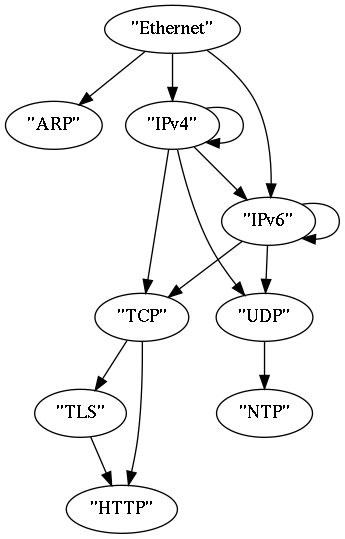
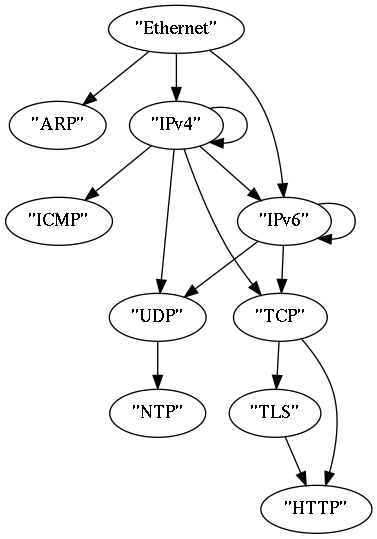
Added ICMP with echo (ping) support

diff --git a/src/layer2/icmp.rs b/src/layer2/icmp.rs
@@ -1,0 +1,129 @@
+//! Internet Control Message Protocol related packet processing
+use prelude::*;
+
+#[derive(Debug, Clone)]
+/// The ICMP parser
+pub struct IcmpParser;
+
+impl Parser<PathIp> for IcmpParser {
+    type Result = Layer;
+    type Variant = ParserVariant;
+
+    /// Parse an `IcmpPacket` from an `&[u8]`
+    fn parse<'a>(&mut self,
+                 input: &'a [u8],
+                 result: Option<&Vec<Self::Result>>,
+                 _: Option<&mut PathIp>)
+                 -> IResult<&'a [u8], Self::Result> {
+        do_parse!(input,
+            expr_opt!(match result {
+                Some(vector) => match vector.last() {
+                    // ICMP on top of IPv4
+                    Some(&Layer::Ipv4(ref e)) if e.protocol == IpProtocol::Icmp => Some(()),
+
+                    // Previous result found, but not correct parent
+                    _ => None,
+                },
+                // Parse also if no result is given, for testability
+                None => Some(()),
+            }) >>
+
+            // Parse the actual packet
+            message_type: map_opt!(be_u8, IcmpType::from_u8) >>
+            code: be_u8 >>
+            checksum: be_u16 >>
+
+            // ICMP echo
+            data: cond!((message_type == IcmpType::EchoReply ||
+                         message_type == IcmpType::EchoRequest) &&
+                        code == 0, call!(IcmpEcho::parse)) >>
+
+            // Return the parsing result
+            (Layer::Icmp(IcmpPacket {
+                message_type: message_type,
+                code: code,
+                checksum: checksum,
+                data: data,
+            }))
+        )
+    }
+
+    fn variant(&self) -> Self::Variant {
+        ParserVariant::Icmp(self.clone())
+    }
+}
+
+#[derive(Debug, Eq, PartialEq)]
+/// Representation of an Internet Control Message Protocol packet
+pub struct IcmpPacket {
+    /// The ICMP type
+    pub message_type: IcmpType,
+
+    /// The message subtype
+    pub code: u8,
+
+    /// Error checking data, calculated from the ICMP header and data, with value 0 substituted for
+    /// this field.
+    pub checksum: u16,
+
+    /// Contents vary based on the type and code.
+    pub data: Option<IcmpData>,
+}
+
+#[derive(Debug, Eq, PartialEq)]
+/// Available ICMP control messages
+pub enum IcmpType {
+    /// Echo reply used to ping
+    EchoReply,
+
+    /// Echo request used to ping
+    EchoRequest,
+}
+
+impl IcmpType {
+    /// Convert a u8 to an `IcmpType`. Returns None if the type is not supported or generally
+    /// invalid.
+    pub fn from_u8(input: u8) -> Option<IcmpType> {
+        match input {
+            0 => Some(IcmpType::EchoReply),
+            8 => Some(IcmpType::EchoRequest),
+            _ => None,
+        }
+    }
+}
+
+#[derive(Debug, Eq, PartialEq)]
+/// Representation of a certain ICMP message
+pub enum IcmpData {
+    /// ICMP ping request and reply
+    Echo(IcmpEcho),
+}
+
+#[derive(Debug, Eq, PartialEq)]
+/// ICMP echo request and replies
+pub struct IcmpEcho {
+    /// Identifier
+    pub identifier: u16,
+
+    /// Sequence Number
+    pub sequence_number: u16,
+
+    /// Optional payload
+    pub payload: Option<Vec<u8>>,
+}
+
+impl IcmpEcho {
+    named!(parse<&[u8], IcmpData>,
+        do_parse!(
+            identifier: be_u16 >>
+            sequence_number: be_u16 >>
+            payload: opt!(map!(rest, Vec::from)) >>
+
+            (IcmpData::Echo(IcmpEcho {
+                identifier: identifier,
+                sequence_number: sequence_number,
+                payload: payload,
+            }))
+        )
+    );
+}

diff --git a/tests/icmp.rs b/tests/icmp.rs
@@ -1,0 +1,66 @@
+extern crate nom;
+extern crate peel_ip;
+use peel_ip::prelude::*;
+
+static ICMP_REQUEST: &'static [u8] = &[0x08, 0x00, 0x41, 0x5c, 0x02, 0x00, 0x0a, 0x00, 0x61, 0x62, 0x63, 0x64, 0x65,
+                                       0x66, 0x67, 0x68, 0x69, 0x6a, 0x6b, 0x6c, 0x6d, 0x6e, 0x6f, 0x70, 0x71, 0x72,
+                                       0x73, 0x74, 0x75, 0x76, 0x77, 0x61, 0x62, 0x63, 0x64, 0x65, 0x66, 0x67, 0x68,
+                                       0x69];
+
+#[test]
+fn icmp_parser_variant() {
+    let parser = IcmpParser;
+    println!("{:?}", parser.variant());
+}
+
+#[test]
+fn parse_icmp_request_success() {
+    let mut parser = IcmpParser;
+    let res = parser.parse(ICMP_REQUEST, None, None).unwrap().1;
+    println!("{}", res);
+    assert_eq!(Layer::Icmp(IcmpPacket {
+                   message_type: IcmpType::EchoRequest,
+                   code: 0,
+                   checksum: 16732,
+                   data: Some(IcmpData::Echo(IcmpEcho {
+                       identifier: 512,
+                       sequence_number: 2560,
+                       payload: Some(b"abcdefghijklmnopqrstuvwabcdefghi".to_vec()),
+                   })),
+               }),
+               res);
+}
+
+#[test]
+fn parse_icmp_reply_success() {
+    let mut parser = IcmpParser;
+    let mut input = Vec::from(ICMP_REQUEST);
+    input[0] = 0;
+    let res = parser.parse(&input, None, None).unwrap().1;
+    assert_eq!(Layer::Icmp(IcmpPacket {
+                   message_type: IcmpType::EchoReply,
+                   code: 0,
+                   checksum: 16732,
+                   data: Some(IcmpData::Echo(IcmpEcho {
+                       identifier: 512,
+                       sequence_number: 2560,
+                       payload: Some(b"abcdefghijklmnopqrstuvwabcdefghi".to_vec()),
+                   })),
+               }),
+               res);
+}
+
+#[test]
+fn parse_icmp_failure_wrong_icmp_type() {
+    let mut parser = IcmpParser;
+    let mut input = Vec::from(ICMP_REQUEST);
+    input[0] = 1;
+    assert!(parser.parse(&input, None, None).is_err());
+}
+
+#[test]
+fn parse_icmp_failure_too_small() {
+    let mut parser = IcmpParser;
+    let res = parser.parse(&ICMP_REQUEST[..7], None, None);
+    assert_eq!(res, IResult::Incomplete(Needed::Size(8)));
+}

diff --git a/src/lib.rs b/src/lib.rs
@@ -51,6 +51,7 @@ pub mod prelude {
     pub use layer2::*;
     pub use layer2::ipv4::*;
     pub use layer2::ipv6::*;
+    pub use layer2::icmp::*;
 
     // Transport
     pub use layer3::*;
@@ -77,6 +78,9 @@ pub enum ParserVariant {
 
     /// Internet Protocol version 6 parser
     Ipv6(Ipv6Parser),
+
+    /// Internet Control Message Protocol parser
+    Icmp(IcmpParser),
 
     /// Transmission Control Protocol parser
     Tcp(TcpParser),
@@ -109,6 +113,9 @@ pub enum Layer {
     /// Internet Protocol version 6 packet variant
     Ipv6(Ipv6Packet),
 
+    /// Internet Control Message Protocol packet variant
+    Icmp(IcmpPacket),
+
     /// Transmission Control Protocol packet variant
     Tcp(TcpPacket),
 
@@ -134,6 +141,7 @@ macro_rules! impl_fmt_display {
                     $name::Arp(_) => write!(f, "ARP"),
                     $name::Ipv4(_) => write!(f, "IPv4"),
                     $name::Ipv6(_) => write!(f, "IPv6"),
+                    $name::Icmp(_) => write!(f, "ICMP"),
                     $name::Tcp(_) => write!(f, "TCP"),
                     $name::Tls(_) => write!(f, "TLS"),
                     $name::Http(_) => write!(f, "HTTP"),
@@ -170,28 +178,26 @@ impl PeelIp {
         p.link(ipv4, ipv4);
         p.link(ipv6, ipv6);
 
+        // ICMP
+        p.link_new_parser(ipv4, IcmpParser);
+
         // TCP
-        let tcp = p.new_parser(TcpParser);
-        p.link(ipv4, tcp);
+        let tcp = p.link_new_parser(ipv4, TcpParser);
         p.link(ipv6, tcp);
 
         // UDP
-        let udp = p.new_parser(UdpParser);
-        p.link(ipv4, udp);
+        let udp = p.link_new_parser(ipv4, UdpParser);
         p.link(ipv6, udp);
 
         // TLS
-        let tls = p.new_parser(TlsParser);
-        p.link(tcp, tls);
+        let tls = p.link_new_parser(tcp, TlsParser);
 
         // HTTP
-        let http = p.new_parser(HttpParser);
-        p.link(tcp, http);
+        let http = p.link_new_parser(tcp, HttpParser);
         p.link(tls, http);
 
         // NTP
-        let ntp = p.new_parser(NtpParser);
-        p.link(udp, ntp);
+        p.link_new_parser(udp, NtpParser);
 
         // Create a path instance
         p.data = Some(Path::new());

diff --git a/benches/icmp.rs b/benches/icmp.rs
@@ -1,0 +1,30 @@
+#![feature(test)]
+extern crate peel_ip;
+extern crate test;
+
+use test::Bencher;
+use peel_ip::prelude::*;
+
+static PACKET: &'static [u8] = &[0x08, 0x00, 0x41, 0x5c, 0x02, 0x00, 0x0a, 0x00, 0x61, 0x62, 0x63, 0x64, 0x65, 0x66,
+                                 0x67, 0x68, 0x69, 0x6a, 0x6b, 0x6c, 0x6d, 0x6e, 0x6f, 0x70, 0x71, 0x72, 0x73, 0x74,
+                                 0x75, 0x76, 0x77, 0x61, 0x62, 0x63, 0x64, 0x65, 0x66, 0x67, 0x68, 0x69];
+
+#[bench]
+fn icmp_small_packet(bencher: &mut Bencher) {
+    let mut parser = IcmpParser;
+    bencher.iter(|| {
+        parser.parse(PACKET, None, None).unwrap();
+    });
+    bencher.bytes = PACKET.len() as u64;
+}
+
+#[bench]
+fn icmp_big_packet(bencher: &mut Bencher) {
+    let mut parser = IcmpParser;
+    let mut input = Vec::from(PACKET);
+    input.extend_from_slice(&[0xff; 1450]);
+    bencher.iter(|| {
+        parser.parse(&input, None, None).unwrap();
+    });
+    bencher.bytes = input.len() as u64;
+}

diff --git a/src/layer2/ipv4.rs b/src/layer2/ipv4.rs
@@ -112,6 +112,9 @@ pub struct Ipv4Packet {
 #[derive(Clone, Copy, Debug, Hash, Eq, PartialEq)]
 /// Current supported IPv4 protocols
 pub enum IpProtocol {
+    /// Internet Control Message Protocol
+    Icmp,
+
     /// IP encapsulation within IP
     IpIp,
 
@@ -130,6 +133,7 @@ impl IpProtocol {
     /// invalid.
     pub fn from_u8(input: u8) -> Option<IpProtocol> {
         match input {
+            1 => Some(IpProtocol::Icmp),
             4 => Some(IpProtocol::IpIp),
             6 => Some(IpProtocol::Tcp),
             17 => Some(IpProtocol::Udp),

diff --git a/tests/lib.rs b/tests/lib.rs
@@ -251,3 +251,13 @@ fn peel_success_eth() {
     let result = peel.traverse(&input, vec![]).unwrap();
     assert_eq!(result.len(), 1);
 }
+
+#[test]
+fn peel_failure_path_tracking() {
+    let mut peel = PeelIp::new();
+    peel.set_log_level(LogLevel::Trace);
+    let mut result = peel.traverse(PACKET_ETH_IPV4_TCP, vec![]).unwrap();
+    result.swap(0, 1);
+    track_connection(&[], peel.data.as_mut(), Some(&result), 0, 0);
+    assert_eq!(peel.data.unwrap().connection_count(), 1);
+}

diff --git a/src/layer4/http.rs b/src/layer4/http.rs
@@ -13,7 +13,7 @@ impl Parser<PathIp> for HttpParser {
     fn parse<'a>(&mut self,
                  input: &'a [u8],
                  result: Option<&Vec<Self::Result>>,
-                 path: Option<&mut PathIp>)
+                 _: Option<&mut PathIp>)
                  -> IResult<&'a [u8], Self::Result> {
         do_parse!(input,
 

diff --git a/src/layer2/mod.rs b/src/layer2/mod.rs
@@ -1,3 +1,4 @@
 //! Internet Layer packets
 pub mod ipv4;
 pub mod ipv6;
+pub mod icmp;
